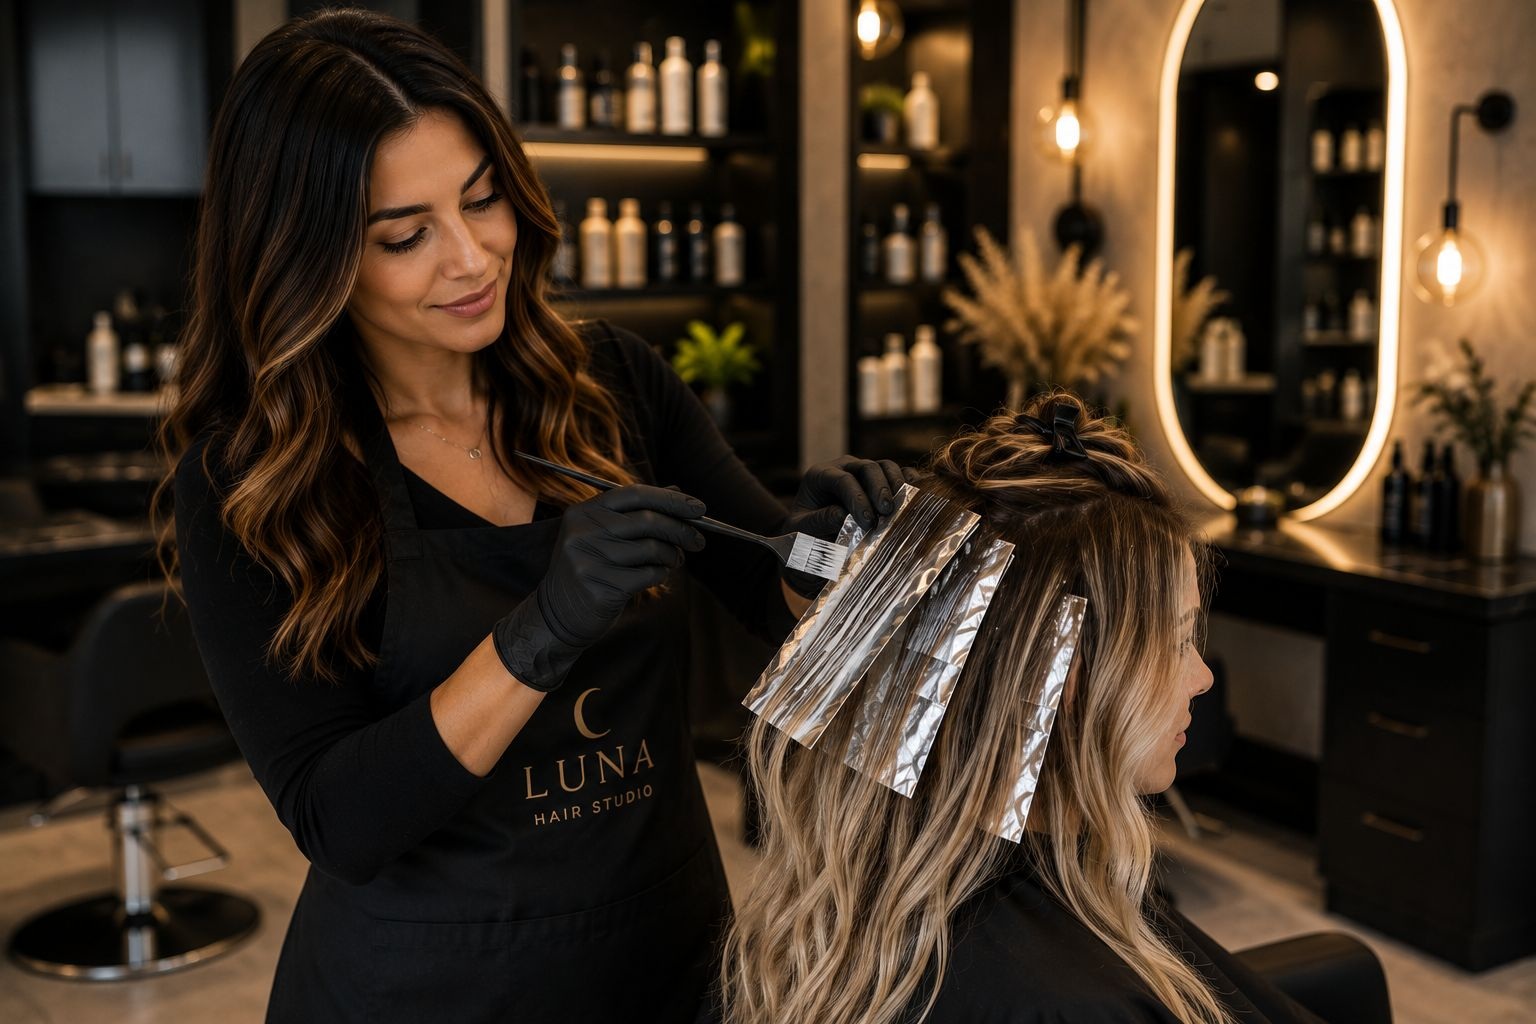
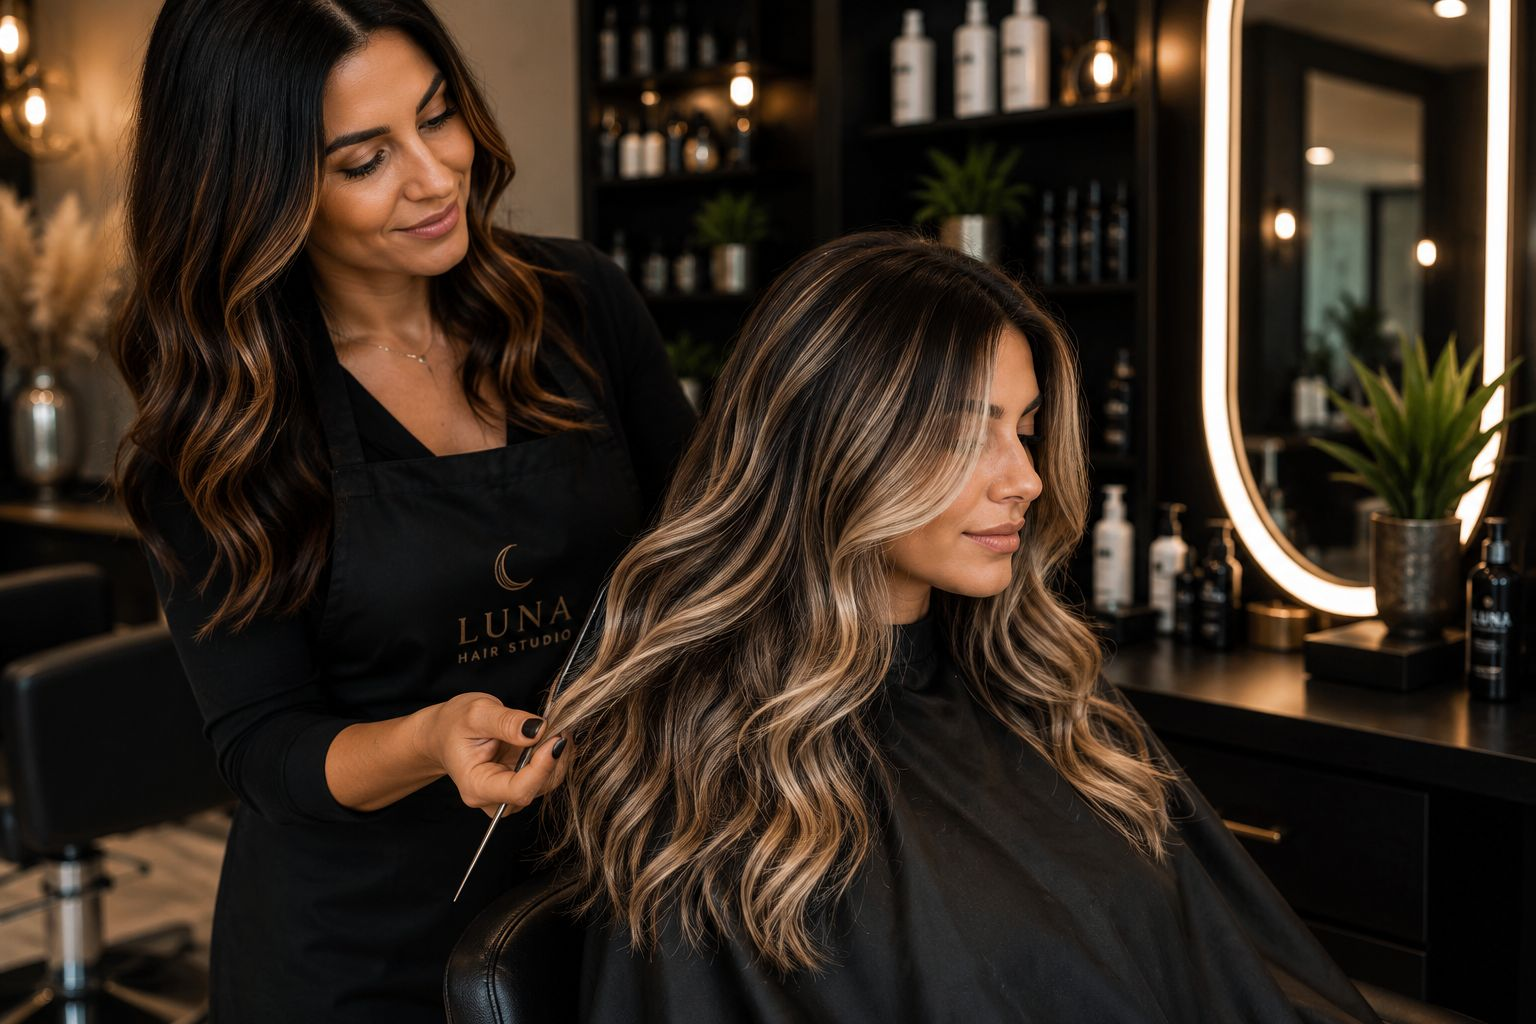
feat(assets): publish and connect all remaining demo images
- og-cover.jpg: nieuwe JPG previewafbeelding (1280x720) voor social sharing
- index.html: og:image/twitter:image bijgewerkt van svg naar jpg, og:image:width/height toegevoegd
- Demo OG images: elke demo krijgt eigen hero-afbeelding als og:image
  - cafe → hero-cafe-terrace-sunset-01.jpg
  - garage → hero-garage-bmw-blauw-showroom.jpg
  - industrieel → hero-production-hall-01.jpg
  - mediterranean-brasserie → hero-dining-room-evening-01.jpg
  - personal-portfolio → hero-personal-portfolio.jpg
  - restaurant → hero-restaurant-interior-01.jpg
  - luna-hair-studio → hero-luna-hair-studio.jpg (nieuw toegevoegd)
- Nieuwe luna-hair-studio service images: service-balayage.jpg, service-hair-extensions.jpg

diff --git a/index.html b/index.html
@@ -13,15 +13,19 @@
   <meta property="og:type" content="website" />
   <meta property="og:locale" content="nl_BE" />
   <meta property="og:site_name" content="Lorenzo Web Solutions" />
-  <meta property="og:title" content="Professionele websites voor zelfstandigen en kleine ondernemingen" />
-  <meta property="og:description" content="Persoonlijke begeleiding en duidelijke afspraken voor een professionele online presentatie." />
+  <meta property="og:title" content="Lorenzo Web Solutions | Professionele websites voor zelfstandigen en kleine ondernemingen" />
+  <meta property="og:description" content="Professionele websites voor zelfstandigen en kleine ondernemingen: modern, mobielvriendelijk en met persoonlijke begeleiding." />
   <meta property="og:url" content="https://lorenzowebsolutions.be/" />
-  <meta property="og:image" content="https://lorenzowebsolutions.be/assets/images/og-cover.svg" />
+  <meta property="og:image" content="https://lorenzowebsolutions.be/assets/images/og-cover.jpg" />
+  <meta property="og:image:width" content="1280" />
+  <meta property="og:image:height" content="720" />
+  <meta property="og:image:type" content="image/jpeg" />
 
   <meta name="twitter:card" content="summary_large_image" />
-  <meta name="twitter:title" content="Lorenzo Web Solutions" />
-  <meta name="twitter:description" content="Professionele websites voor zelfstandigen en kleine ondernemingen." />
-  <meta name="twitter:image" content="https://lorenzowebsolutions.be/assets/images/og-cover.svg" />
+  <meta name="twitter:site" content="@lorenzowebsolutions" />
+  <meta name="twitter:title" content="Lorenzo Web Solutions | Professionele websites" />
+  <meta name="twitter:description" content="Professionele websites voor zelfstandigen en kleine ondernemingen: modern, mobielvriendelijk en met persoonlijke begeleiding." />
+  <meta name="twitter:image" content="https://lorenzowebsolutions.be/assets/images/og-cover.jpg" />
 
   <meta name="lws-functions-base-url" content="https://xcsptvntvrizwhskaphr.supabase.co/functions/v1" />
 

diff --git a/pages/demos/mediterranean-brasserie/index.html b/pages/demos/mediterranean-brasserie/index.html
@@ -12,11 +12,11 @@
   <meta property="og:title" content="Casa Solea Mediterranean Brasserie Demo | Lorenzo Web Solutions" />
   <meta property="og:description" content="Editorial Mediterranean Brasserie demo met cinematografische hero, chefverhaal, redactioneel menu en compacte reservatiemodule." />
   <meta property="og:url" content="https://lorenzowebsolutions.be/pages/demos/mediterranean-brasserie/" />
-  <meta property="og:image" content="https://lorenzowebsolutions.be/assets/images/og-cover.svg" />
+  <meta property="og:image" content="https://lorenzowebsolutions.be/assets/images/mediterranean-brasserie/hero/hero-dining-room-evening-01.jpg" />
   <meta name="twitter:card" content="summary_large_image" />
   <meta name="twitter:title" content="Casa Solea Mediterranean Brasserie Demo | Lorenzo Web Solutions" />
   <meta name="twitter:description" content="Editorial Mediterranean Brasserie demo met cinematografische hero, chefverhaal, redactioneel menu en compacte reservatiemodule." />
-  <meta name="twitter:image" content="https://lorenzowebsolutions.be/assets/images/og-cover.svg" />
+  <meta name="twitter:image" content="https://lorenzowebsolutions.be/assets/images/mediterranean-brasserie/hero/hero-dining-room-evening-01.jpg" />
   <link rel="icon" type="image/svg+xml" href="../../../assets/icons/favicon.svg" />
   <link rel="preconnect" href="https://fonts.googleapis.com" />
   <link rel="preconnect" href="https://fonts.gstatic.com" crossorigin />

diff --git a/pages/demos/garage/index.html b/pages/demos/garage/index.html
@@ -12,11 +12,11 @@
   <meta property="og:title" content="TorquePoint Garage Demo | Lorenzo Web Solutions" />
   <meta property="og:description" content="TorquePoint Garage demo: automotive showroom-concept met voertuigzoeker, voorraad, werkplaatsmodule en afspraakflow." />
   <meta property="og:url" content="https://lorenzowebsolutions.be/pages/demos/garage/" />
-  <meta property="og:image" content="https://lorenzowebsolutions.be/assets/images/og-cover.svg" />
+  <meta property="og:image" content="https://lorenzowebsolutions.be/assets/images/garage/hero/hero-garage-bmw-blauw-showroom.jpg" />
   <meta name="twitter:card" content="summary_large_image" />
   <meta name="twitter:title" content="TorquePoint Garage Demo | Lorenzo Web Solutions" />
   <meta name="twitter:description" content="TorquePoint Garage demo: automotive showroom-concept met voertuigzoeker, voorraad, werkplaatsmodule en afspraakflow." />
-  <meta name="twitter:image" content="https://lorenzowebsolutions.be/assets/images/og-cover.svg" />
+  <meta name="twitter:image" content="https://lorenzowebsolutions.be/assets/images/garage/hero/hero-garage-bmw-blauw-showroom.jpg" />
   <meta name="lws-functions-base-url" content="https://xcsptvntvrizwhskaphr.supabase.co/functions/v1" />
   <link rel="icon" type="image/svg+xml" href="../../../assets/icons/favicon.svg" />
   <link rel="preconnect" href="https://fonts.googleapis.com" />

diff --git a/pages/demos/industrieel-elektriciteit/index.html b/pages/demos/industrieel-elektriciteit/index.html
@@ -12,11 +12,11 @@
   <meta property="og:title" content="AXIOM Industrial Services Demo | Lorenzo Web Solutions" />
   <meta property="og:description" content="Fictieve demo van een industrieel serviceplatform voor storingen, onderhoud, installaties en shutdown-ondersteuning." />
   <meta property="og:url" content="https://lorenzowebsolutions.be/pages/demos/industrieel-elektriciteit/" />
-  <meta property="og:image" content="https://lorenzowebsolutions.be/assets/images/og-cover.svg" />
+  <meta property="og:image" content="https://lorenzowebsolutions.be/assets/images/industrial/hero/hero-production-hall-01.jpg" />
   <meta name="twitter:card" content="summary_large_image" />
   <meta name="twitter:title" content="AXIOM Industrial Services Demo | Lorenzo Web Solutions" />
   <meta name="twitter:description" content="Fictieve demo van een industrieel serviceplatform voor storingen, onderhoud, installaties en shutdown-ondersteuning." />
-  <meta name="twitter:image" content="https://lorenzowebsolutions.be/assets/images/og-cover.svg" />
+  <meta name="twitter:image" content="https://lorenzowebsolutions.be/assets/images/industrial/hero/hero-production-hall-01.jpg" />
   <link rel="icon" type="image/svg+xml" href="../../../assets/icons/favicon.svg" />
   <link rel="preconnect" href="https://fonts.googleapis.com" />
   <link rel="preconnect" href="https://fonts.gstatic.com" crossorigin />

diff --git a/pages/demos/personal-portfolio/index.html b/pages/demos/personal-portfolio/index.html
@@ -12,11 +12,11 @@
   <meta property="og:title" content="Personal Portfolio Demo | Lorenzo Web Solutions" />
   <meta property="og:description" content="Professionele portfolio demo met sterke projectpresentatie, certificatenstructuur en mobiele contactflow." />
   <meta property="og:url" content="https://lorenzowebsolutions.be/pages/demos/personal-portfolio/" />
-  <meta property="og:image" content="https://lorenzowebsolutions.be/assets/images/og-cover.svg" />
+  <meta property="og:image" content="https://lorenzowebsolutions.be/assets/images/personal/hero/hero-personal-portfolio.jpg" />
   <meta name="twitter:card" content="summary_large_image" />
   <meta name="twitter:title" content="Personal Portfolio Demo | Lorenzo Web Solutions" />
   <meta name="twitter:description" content="Professionele portfolio demo voor technische en zelfstandige profielen." />
-  <meta name="twitter:image" content="https://lorenzowebsolutions.be/assets/images/og-cover.svg" />
+  <meta name="twitter:image" content="https://lorenzowebsolutions.be/assets/images/personal/hero/hero-personal-portfolio.jpg" />
   <meta name="lws-functions-base-url" content="https://xcsptvntvrizwhskaphr.supabase.co/functions/v1" />
   <link rel="icon" type="image/svg+xml" href="../../../assets/icons/favicon.svg" />
   <link rel="preconnect" href="https://fonts.googleapis.com" />

diff --git a/pages/demos/restaurant/index.html b/pages/demos/restaurant/index.html
@@ -12,11 +12,11 @@
   <meta property="og:title" content="Restaurant Demo v1.0 | Lorenzo Web Solutions" />
   <meta property="og:description" content="Restaurant Demo v1.0 met menu, reservatieflow, sfeerweergave en sterke mobiele structuur." />
   <meta property="og:url" content="https://lorenzowebsolutions.be/pages/demos/restaurant/" />
-  <meta property="og:image" content="https://lorenzowebsolutions.be/assets/images/og-cover.svg" />
+  <meta property="og:image" content="https://lorenzowebsolutions.be/assets/images/restaurant/hero/hero-restaurant-interior-01.jpg" />
   <meta name="twitter:card" content="summary_large_image" />
   <meta name="twitter:title" content="Restaurant Demo v1.0 | Lorenzo Web Solutions" />
   <meta name="twitter:description" content="Restaurant Demo v1.0 met menu, reservatieflow, sfeerweergave en sterke mobiele structuur." />
-  <meta name="twitter:image" content="https://lorenzowebsolutions.be/assets/images/og-cover.svg" />
+  <meta name="twitter:image" content="https://lorenzowebsolutions.be/assets/images/restaurant/hero/hero-restaurant-interior-01.jpg" />
   <meta name="lws-functions-base-url" content="https://xcsptvntvrizwhskaphr.supabase.co/functions/v1" />
   <link rel="icon" type="image/svg+xml" href="../../../assets/icons/favicon.svg" />
   <link rel="preconnect" href="https://fonts.googleapis.com" />

diff --git a/pages/demos/cafe/index.html b/pages/demos/cafe/index.html
@@ -12,11 +12,11 @@
   <meta property="og:title" content="Cafe Amber Demo | Lorenzo Web Solutions" />
   <meta property="og:description" content="Een levendige demo van een hedendaagse stadsbar voor bieren, cocktails, tapas en live music." />
   <meta property="og:url" content="https://lorenzowebsolutions.be/pages/demos/cafe/" />
-  <meta property="og:image" content="https://lorenzowebsolutions.be/assets/images/og-cover.svg" />
+  <meta property="og:image" content="https://lorenzowebsolutions.be/assets/images/cafe/hero/hero-cafe-terrace-sunset-01.jpg" />
   <meta name="twitter:card" content="summary_large_image" />
   <meta name="twitter:title" content="Cafe Amber Demo | Lorenzo Web Solutions" />
   <meta name="twitter:description" content="Een levendige demo van een hedendaagse stadsbar voor bieren, cocktails, tapas en live music." />
-  <meta name="twitter:image" content="https://lorenzowebsolutions.be/assets/images/og-cover.svg" />
+  <meta name="twitter:image" content="https://lorenzowebsolutions.be/assets/images/cafe/hero/hero-cafe-terrace-sunset-01.jpg" />
   <link rel="icon" type="image/svg+xml" href="../../../assets/icons/favicon.svg" />
   <link rel="preconnect" href="https://fonts.googleapis.com" />
   <link rel="preconnect" href="https://fonts.gstatic.com" crossorigin />

diff --git a/pages/demos/luna-hair-studio/index.html b/pages/demos/luna-hair-studio/index.html
@@ -14,6 +14,13 @@
   <meta property="og:title" content="Luna Hair Studio | Luxury Hair · Beauty · Style" />
   <meta property="og:description" content="Premium kapsalon in Antwerpen. Expertise in knippen, kleuren, balayage en extensions." />
   <meta property="og:url" content="https://lorenzowebsolutions.be/pages/demos/luna-hair-studio/" />
+  <meta property="og:image" content="https://lorenzowebsolutions.be/assets/images/luna-hair-studio/hero/hero-luna-hair-studio.jpg" />
+
+  <meta name="twitter:card" content="summary_large_image" />
+  <meta name="twitter:title" content="Luna Hair Studio | Luxury Hair · Beauty · Style" />
+  <meta name="twitter:description" content="Premium kapsalon in Antwerpen. Expertise in knippen, kleuren, balayage en extensions." />
+  <meta name="twitter:image" content="https://lorenzowebsolutions.be/assets/images/luna-hair-studio/hero/hero-luna-hair-studio.jpg" />
+  <meta property="og:url" content="https://lorenzowebsolutions.be/pages/demos/luna-hair-studio/" />
 
   <link rel="icon" type="image/svg+xml" href="../../../assets/icons/favicon.svg" />
 
